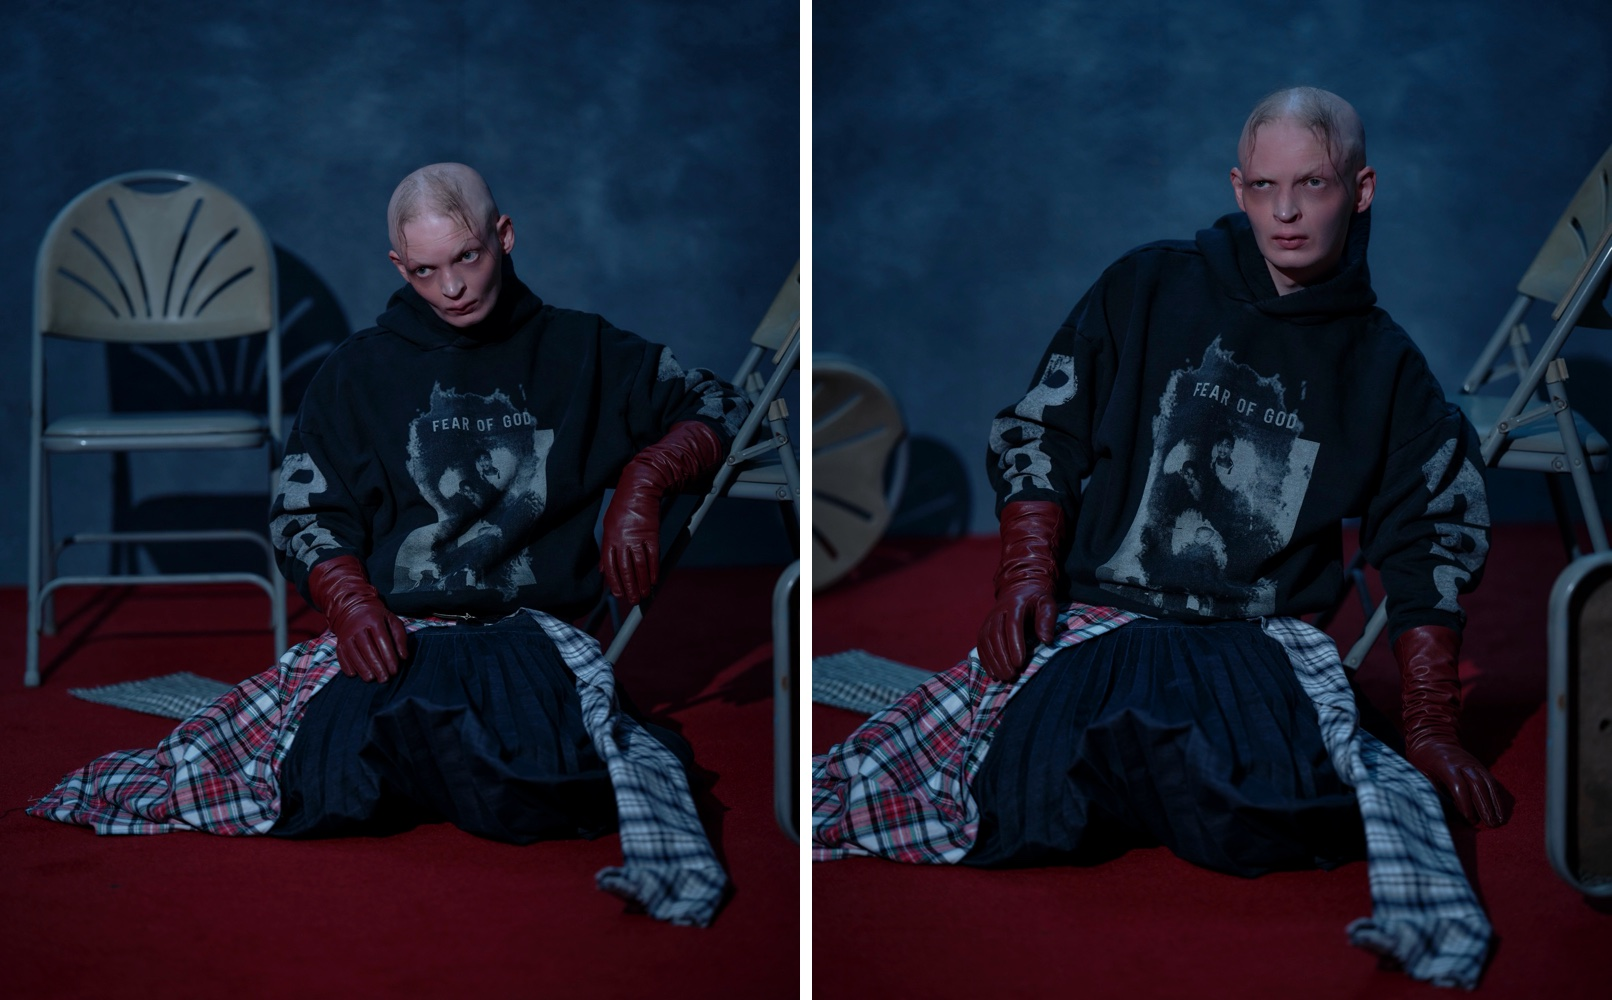
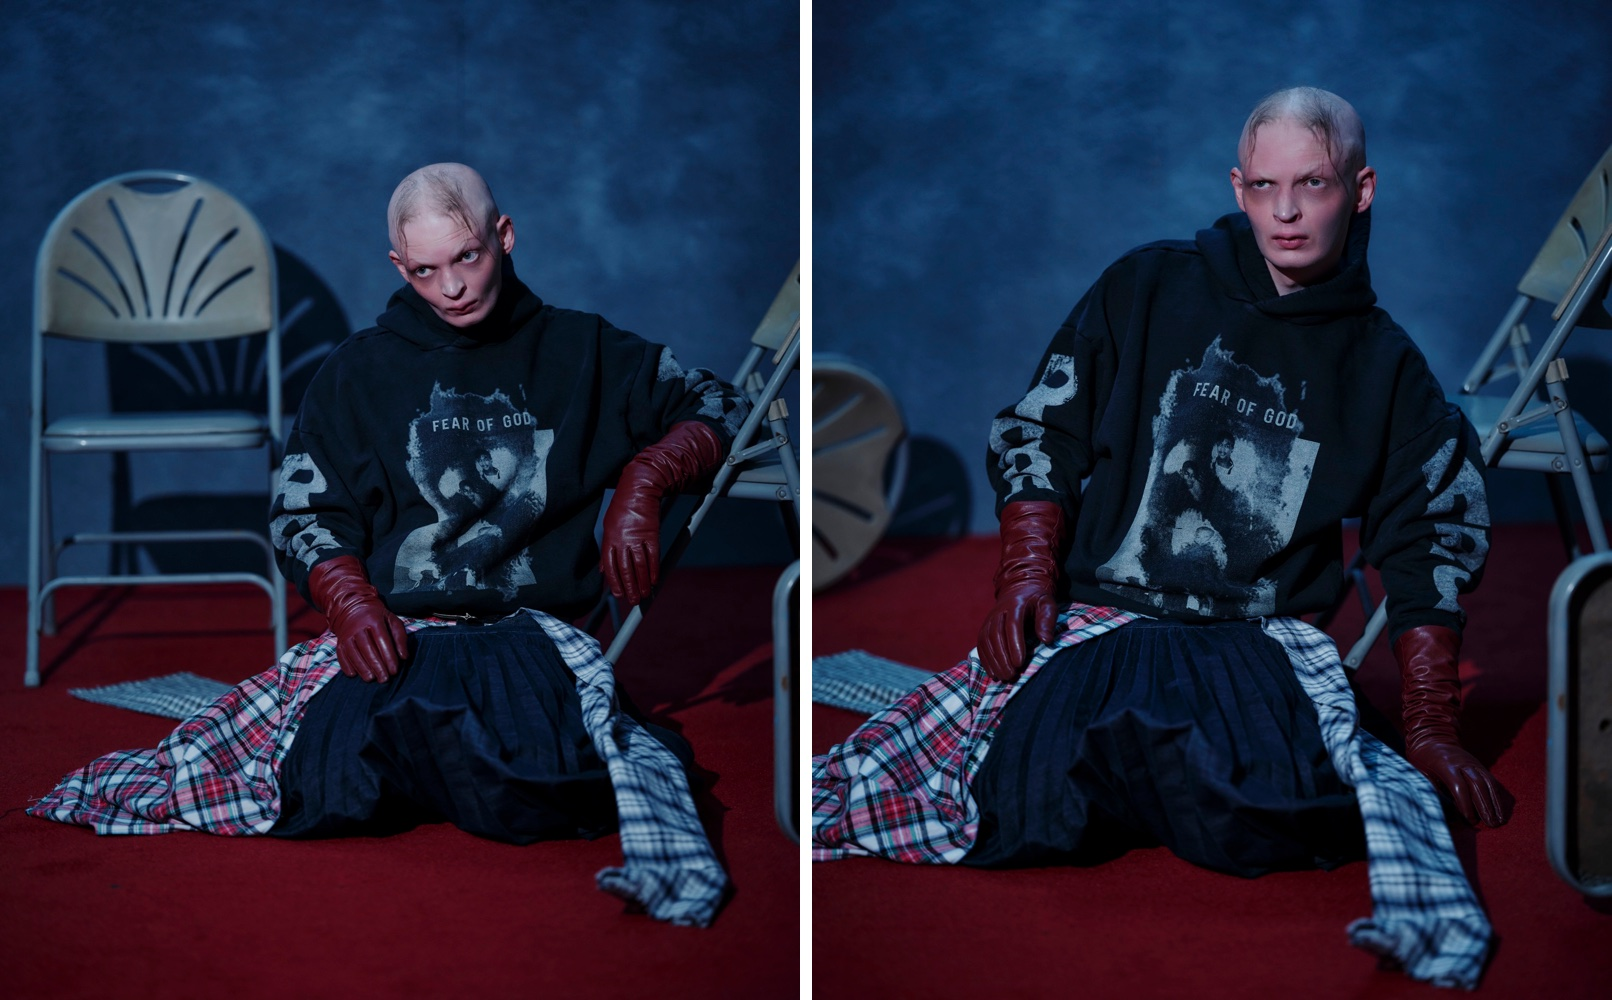
Fear of God: rebuild diptychs 5 and 6 from the re-saved frames

diff --git a/pazl/work/jid-x-fear-of-god.html b/pazl/work/jid-x-fear-of-god.html
@@ -66,8 +66,8 @@
           <img src="../assets/img/jid-fog-6.webp" width="1500" height="1875" alt="J.I.D × Fear of God capsule, look six" loading="lazy">
         </div>
         <img src="../assets/img/jid-diptych-4.jpg" width="1612" height="1000" alt="Diptych: the model in the hooded sweatshirt and pleated skirt, turning and shouting among the folding chairs" loading="lazy">
-        <img src="../assets/img/jid-diptych-5.jpg" width="1612" height="1000" alt="Diptych: the model seated on the red floor in the Fear of God hoodie and plaid, two frames" loading="lazy">
-        <img src="../assets/img/jid-diptych-6.jpg" width="1612" height="1000" alt="Diptych: the model holding a folding chair, and seated with red gloves to the face" loading="lazy">
+        <img src="../assets/img/jid-diptych-5.jpg?v=2" width="1612" height="1000" alt="Diptych: the model seated on the red floor in the Fear of God hoodie and plaid, two frames" loading="lazy">
+        <img src="../assets/img/jid-diptych-6.jpg?v=2" width="1612" height="1000" alt="Diptych: the model holding a folding chair, and seated with red gloves to the face" loading="lazy">
       </div>
     </section>
 

diff --git a/pazl/README.md b/pazl/README.md
@@ -142,4 +142,4 @@ The racing-suit rows are two diptychs: `assets/img/durk-stage-diptych.jpg` pairs
 
 ## Fear of God gallery + studio heading (30 Oct)
 
-The J.I.D × Fear of God page no longer ends on `jid-diptych-3.jpg` (it repeated looks five and six from the two-up above it; the file stays because the home page's rolling sequence still uses it). Three new diptychs from the January/February 2026 frames in `J.I.D X FEAR OF GOD` (FSF_FOG_JID_LB 15/16, 31/32, 30/33) follow the two-up: `jid-diptych-4.jpg`, `-5.jpg`, `-6.jpg`, each 1612×1000 with a 12 px white gutter; LB 33 is cropped to 4:5 to match. The studio page heading now reads "Pursue A–Z Laudably."
+The J.I.D × Fear of God page no longer ends on `jid-diptych-3.jpg` (it repeated looks five and six from the two-up above it; the file stays because the home page's rolling sequence still uses it). Three new diptychs from the January/February 2026 frames in `J.I.D X FEAR OF GOD` (FSF_FOG_JID_LB 15/16, 31/32, 30/33) follow the two-up: `jid-diptych-4.jpg`, `-5.jpg`, `-6.jpg`, each 1612×1000 with a 12 px white gutter; LB 33 is cropped to 4:5 to match. Diptychs 5 and 6 were rebuilt later the same evening from re-saved versions of LB 30–33 (`?v=2` on the page). The studio page heading now reads "Pursue A–Z Laudably."
